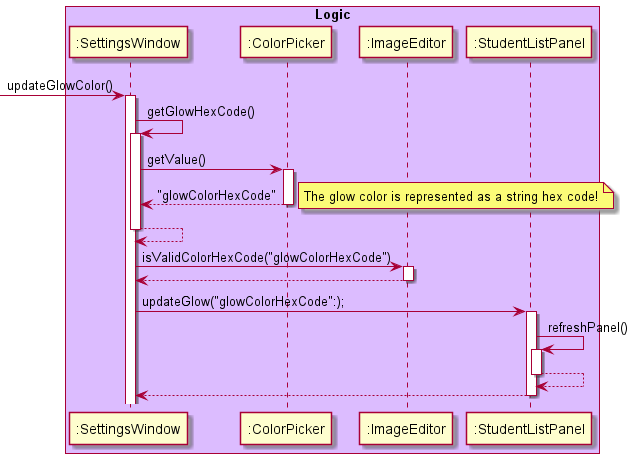
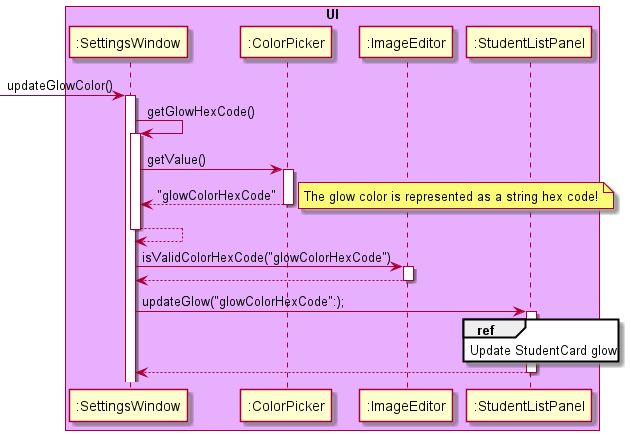
Update DG with additional use cases

diff --git a/docs/DeveloperGuide.md b/docs/DeveloperGuide.md
@@ -178,25 +178,39 @@ This section describes some noteworthy details on how certain features are imple
 
 ### Changing the profile picture glow feature
 
-This feature allows the user to change the color of the glow surrounding the profile pictures, which by default is a purplish/pink (**#e9affff**). The main mechanism behind this feature is the use of *EventHandlers*, provided by the JavaFX platform, to listen for color selections made by the user to update the glow accordingly.
+This feature allows the user to change the color of the glow surrounding the profile pictures, which by default is a purplish/pink (**#e9affff**). 
 
-These are the few main classes at play:
-* ColorPicker (default JavaFX class)
-* Settings Window
-* ImageEditor 
-* StudentListPanel
+The main mechanism behind this feature is the use of *EventHandlers*, provided by the JavaFX platform, to listen for color selections made by the user to update the glow accordingly. 
+
+A following is a snippet of how an EventHandler was attached to the ColorPicker (using **pseudoname** for ColorPicker.)
+`nameOfColorPicker.setOnAction(e -> {
+updateGlowColor(getGlowHexCode());})`
+
+Next, the main mechanism.
+
+There are a few classes at play for the main process:
+* `ColorPicker` (default JavaFX class)
+* `SettingsWindow`
+* `ImageEditor `
+* `StudentListPanel`
 
 The following sequence diagram shows the typical chain of events within the internal system, following by a brief description.
 
 ![GlowSequenceDiagram](diagrams/GlowSequenceDiagram.png)
 
-1. When a color is selected (_change detected_), the SettingsWindow#updateGlowColor() is called. 
-2. There is a self-invocation of the getGlowHexCode() method, leading to the new  glow color hex code being retrieved by using ColorPicker#getValue(). 
-3. This value is then verified using the ImageEditor#isValidColorHexCode().
-4. This valid value (assuming Step 3 returns true, else ImageStorage.*DEFAULT_COLOR* is used) is then used as a parameter when calling StudentListPanel#updateGlow(), which updates the _glowColorHexCode_ attribute and calls refreshPanel().
-5. Within the refreshPanel(), every studentCard is refreshed with the new glow color.
+1. When a color is selected (_change detected_), the `SettingsWindow#updateGlowColor()` is called. 
+2. There is a self-invocation of the `SettingsWindow#getGlowHexCode()` method, leading to the new  glow color hex code being retrieved by using `ColorPicker#getValue()`. 
+3. This value is then verified using the `ImageEditor#isValidColorHexCode()`.
+4. This valid value (assuming Step 3 returns true, else `ImageStorage.DEFAULT_COLOR` is used) is then used as a parameter when calling `StudentListPanel#updateGlow()`.
 
-This is just an abstracted, high-level view of how the glow color is updated. A more in-depth view might show how the color is updated within the StudentCard, which is not required to gain an understanding of this feature.
+Next, let's take a closer look at what happens within StudentListPanel.
+![UpdateStudentCardGlow](diagrams/UpdateStudentCardGlowSeqeuenceDiagram.png)
+
+1. When `StudentListPanel#updateGlowColor()` is called, there is a self-invocation of `StudentListPanel#refreshPanel()`.
+2. This then leads to _another_ self invocation of the `StudentListPanel#fillPanelWithCells()` method.
+3. Within the `StudentListPanel#fillPanelWithCells()` method, the `ListView#setItems()` and `ListView#setCellFactory()` methods are called. These methods—without going into too much detail—basically set the list that is used for ListView, and recreate every cell within in. For more information, please read the JavaFX documentation [here](https://docs.oracle.com/javase/8/javafx/api/javafx/scene/control/ListView.html).
+
+That was an overall view of how this feature was implemented. Although there were retracted details, their absence will not undermine the understanding of the feature.
 
 **Design Considerations**
 
@@ -416,14 +430,14 @@ For all use cases below, the _System_ is **NUSTracker** and the _Actor_ is the *
 **Guarantees:** New student info is saved, and displayed.
 
 **MSS:**
-1. User types in command
-2. System adds the user to the address book
-3. System displays that user has been added, and corresponding details
+1. User types in command.
+2. System adds the user to the address book.
+3. System displays that user has been added, and corresponding details.
 
    Use case ends
 
 **Extensions:**
-* 1a. User types in an invalid format
+* 1a. User types in an invalid format.
     * 1a1. nustracker shows an error message, and displays the correct format to use.
 
       Use case ends.
@@ -439,7 +453,7 @@ For all use cases below, the _System_ is **NUSTracker** and the _Actor_ is the *
 **MSS:**
 
 1. User requests to delete a specific student in the list
-2. nustracker deletes the student, and informs user
+2. System deletes the student, and informs user
 
     Use case ends.
 
@@ -906,7 +920,7 @@ Use case ends.
 
 <br>
 
-**<u>Use case UC17 - Exporting emails</u>**
+**<u>Use case UC17 - Export emails</u>**
 
 **Preconditions:** -
 
@@ -930,6 +944,71 @@ Use case ends.
     * 1b1. nustracker shows an error message, informing the user that the file name they have chosen is invalid.<br>
   Use case ends.
     
+
+<br>
+
+**<u>Use case UC18 - Change profile picture glow color</u>**
+
+**Preconditions:** There are students within nustracker.
+
+**Guarantees:** The profile picture glow color will change according to the user's input.
+
+**MSS:**
+
+1. User opens the Settings window.
+2. User opens the color picker, and selects color.
+3. System detects this change, and changes the profile picture glow color.
+
+   Use case ends.
+
+<br>
+
+**<u>Use case UC19 - Change profile picture glow color _via_ the .json file</u>**
+
+**Preconditions:** There are students within nustracker.
+
+**Guarantees:** The profile picture glow color will change according to the user's input.
+
+**MSS:**
+
+1. User closes nustracker.
+2. User opens the preferences.json file, and edits the profile color using a color hex code.
+3. System detects this change, and changes profile picture glow color.
+
+   Use case ends.
+
+* 3a. User uses an invalid color hex code. 
+    * 3a1. User opens nustracker.
+    * 3a1. nustracker detects an invalid hex code and uses the default color (#e9afff) instead.
+    * 3a2. User closes nustracker and sets hex code again.
+      Steps 3a1 to 3a2 are repeated until a valid color hex code is used.<br>
+      Use case ends.
+     
+<br>
+
+**<u>Use case UC20 - Set/Change profile picture</u>**
+
+**Preconditions:** Image size is ideally less than 10mb, is a .png or .jpg image file, and is located within the profile-pictures folder that is created on system startup.
+
+**Guarantees:** Student with the corresponding Student ID now has a profile picture.
+
+**MSS:**
+
+1. User selects the image that they want to set as the target student (_e1111111_)'s profile picture.
+2. User renames the image to `e1111111`.
+3. User refreshes nustracker or restarts it.
+4. nustracker detects this change, and sets the student's profile picture.
+
+   Use case ends.
+
+**Extensions:**
+
+* 4a. User renames the image wrongly
+    * 4a1. nustracker does not detect any changes, and student's profile picture is not updated.
+    * 4a2. User renames image again.<br>
+    * 4a3. User refreshes nustracker or restarts it.
+      Steps 4a1 to 4a3 are repeated until correct image name is used.<br>
+      Use case ends.
 
 <br>
 
